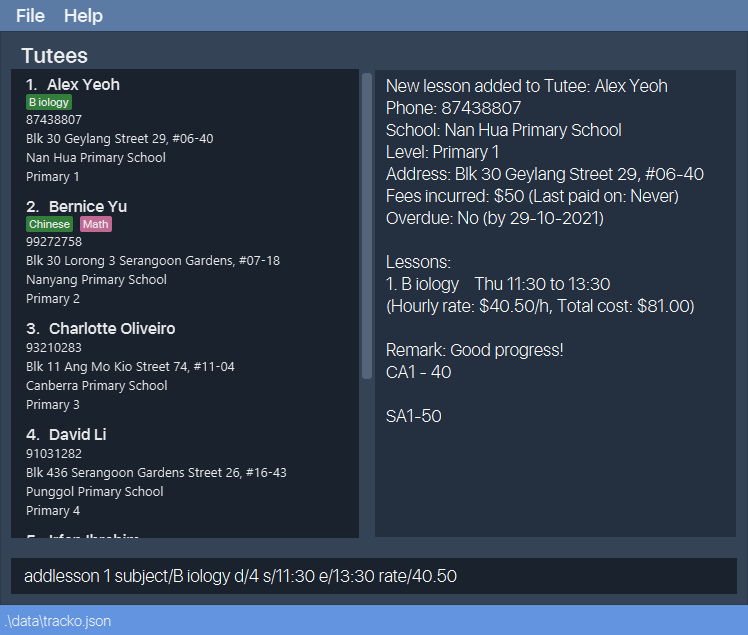
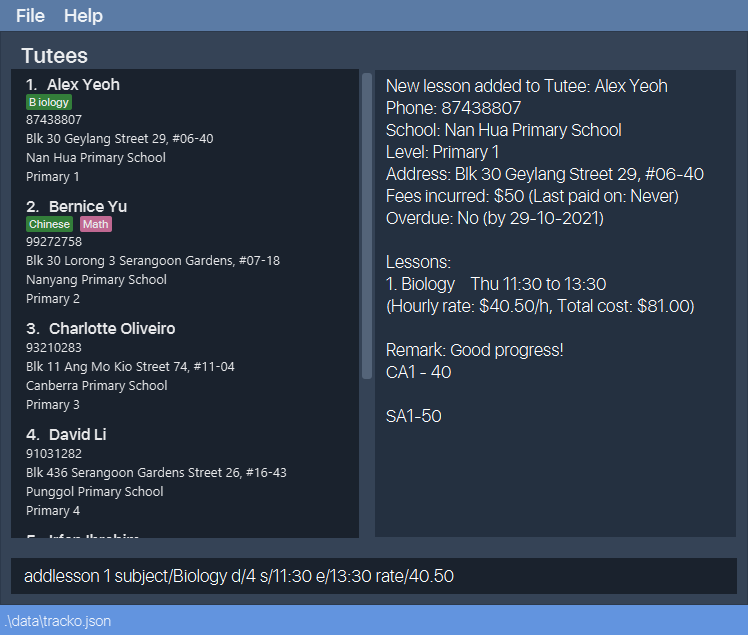
Update addlesson command picture in UG and edit command summary

Changed region(s): [[0.5535, 0.4189, 0.8302, 0.4787], [0.246, 0.8976, 0.615, 0.9276]]

diff --git a/docs/UserGuide.md b/docs/UserGuide.md
@@ -345,7 +345,7 @@ Action | Format, Examples
 **Clear remarks** | `clearremark INDEX` <br> e.g `clearremark 1`
 **Add lesson to tutee** | `addlesson INDEX subject/SUBJECT d/DAY_OF_WEEK s/START_TIME e/END_TIME rate/HOURLY_RATE` <br> e.g `addlesson 1 subject/Biology d/4 s/11:30 e/13:30 rate/40.50`
 **View schedule** | `schedule`
-**Find** | `find [n/...NAME] [l/LEVEL] [subject/...SUBJECT] [overdue/OVERDUE]`<br> e.g `find n/david subject/math` 
+**Find** | `find [n/NAME…] [l/LEVEL] [subject/SUBJECT…] [overdue/OVERDUE]`<br> e.g `find n/david subject/math` 
 **Delete Lesson** | `deletelesson TUTEE_INDEX lesson/LESSON_INDEX`<br> e.g `deletelesson 2 lesson/1`
 **View payment details** | `payment INDEX` <br> e.g `payment 1`
 **Edit payment due** | `payment INDEX amount/AMOUNT` <br> e.g `payment 1 amount/80.50`
